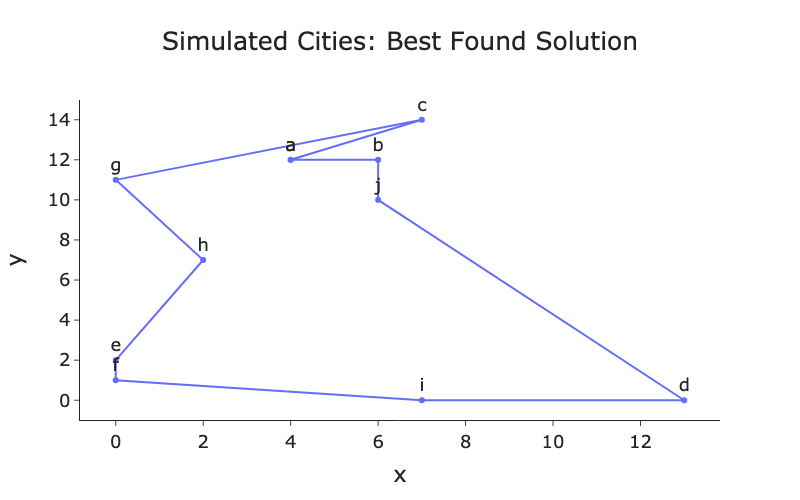
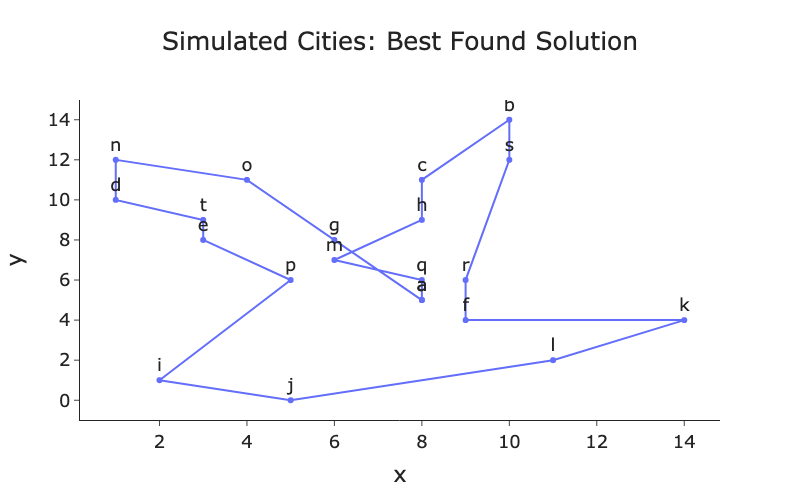
cheeky changes

diff --git a/Optimisation/tabu-search/src/run_search.py b/Optimisation/tabu-search/src/run_search.py
@@ -6,8 +6,8 @@ from tabu_search_module import TabuSearch
 import os
 
 # Generate some random city data
-x = list(np.random.randint(0, 15, 10))
-y = list(np.random.randint(0, 15, 10))
+x = list(np.random.randint(0, 15, 20))
+y = list(np.random.randint(0, 15, 20))
 
 # Generate labels for cities by alphabet
 letters_org = [chr(i) for i in range(ord('a'), ord('z') + 1)]

diff --git a/Optimisation/tabu-search/src/tabu_search_module.py b/Optimisation/tabu-search/src/tabu_search_module.py
@@ -3,7 +3,9 @@ import numpy as np
 
 class TabuSearch:
 
-    def __init__(self, initial_solution: list, cities: dict):
+    def __init__(self,
+                 initial_solution: list,
+                 cities: dict):
         self.initial_solution = initial_solution
         self.cities = cities
 
